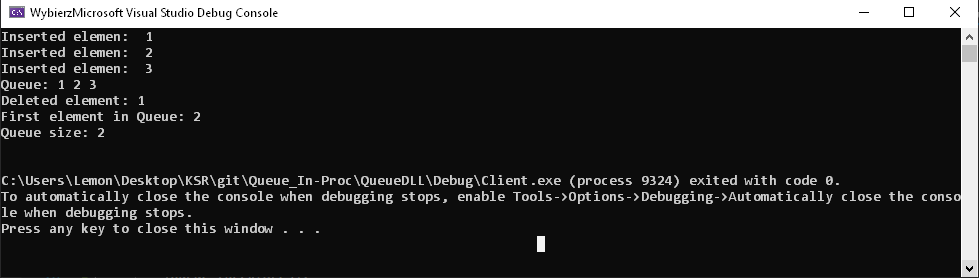
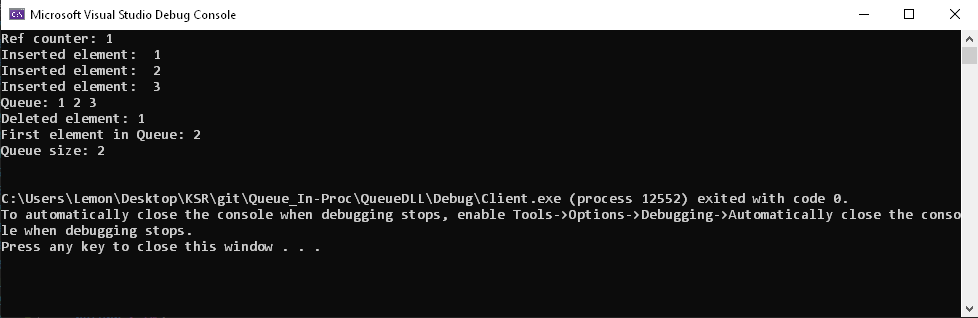
some grammar mistake correction

Changed region(s): [[0.0, 0.0288, 1.0, 1.0], [0.9202, 0.0288, 0.9816, 0.0576], [0.5215, 0.8633, 0.5828, 0.8921]]

diff --git a/QueueDLL/QueueDLL/Queue.cpp b/QueueDLL/QueueDLL/Queue.cpp
@@ -45,7 +45,7 @@ HRESULT Queue::enqueue(int item) {
 		return E_FAIL;
 	}
 
-	printf("Inserted elemen:  %d\n", item);
+	printf("Inserted element:  %d\n", item);
 
 	rear = (rear + 1) % capacity;
 	arr[rear] = item;
